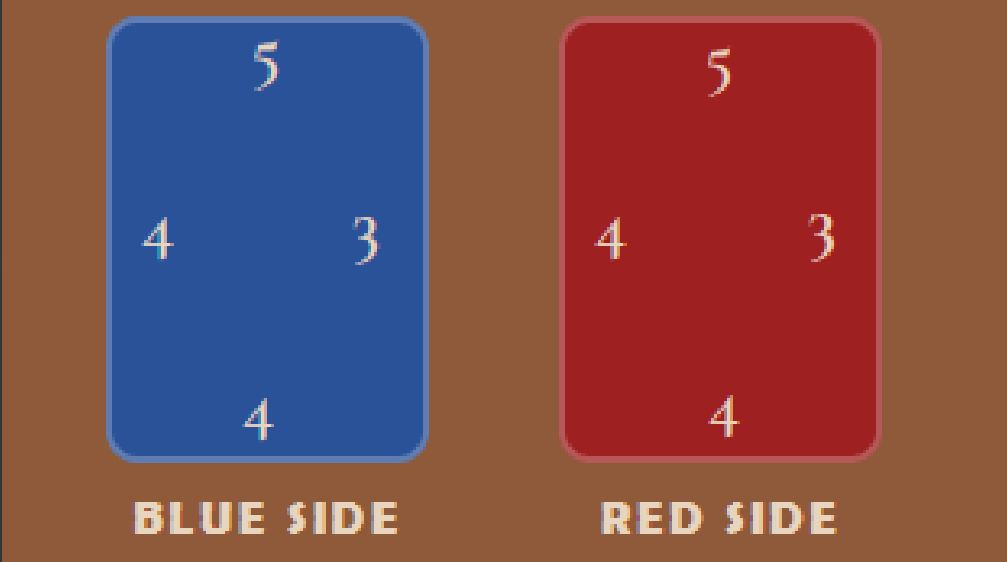
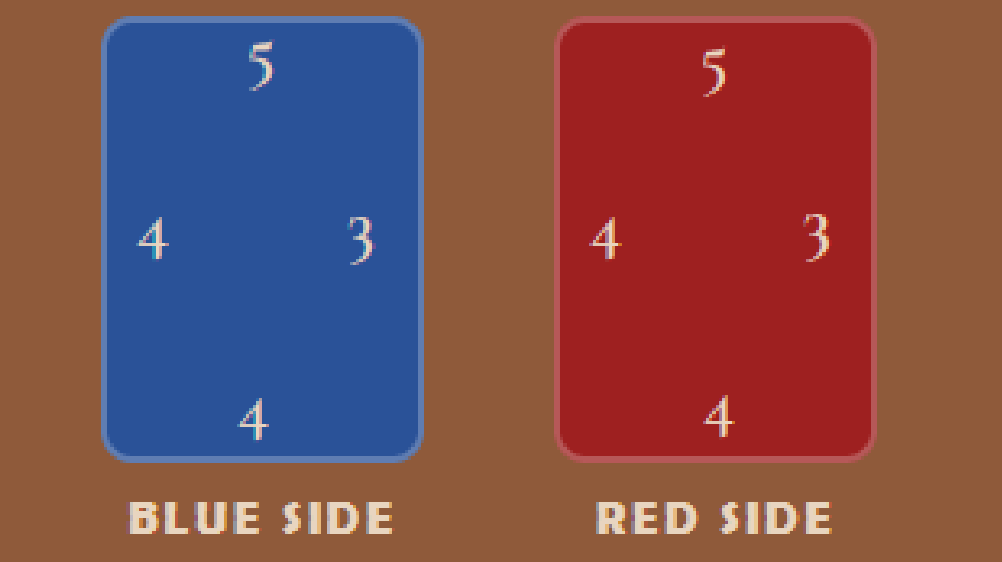
games page cards

diff --git a/games.html b/games.html
@@ -239,7 +239,7 @@
     <div class="box highlight">
       <h2>Your Cards</h2>
       <p>Each card is double-sided. One side is <strong>blue</strong>, one side is <strong>red</strong> to track ownership. Each card has 4 numbers that add up to 16.</p>
-      <img src="Cards ex.png" alt="Cards" width="240" height="176" style="display: block; margin: auto;">
+      <img src="Cards ex.png" alt="Cards" width="240" height="130" style="display: block; margin: auto;">
       <!-- <div class="two-cards">
         <div class="card-wrap">
           <div class="card blue">
